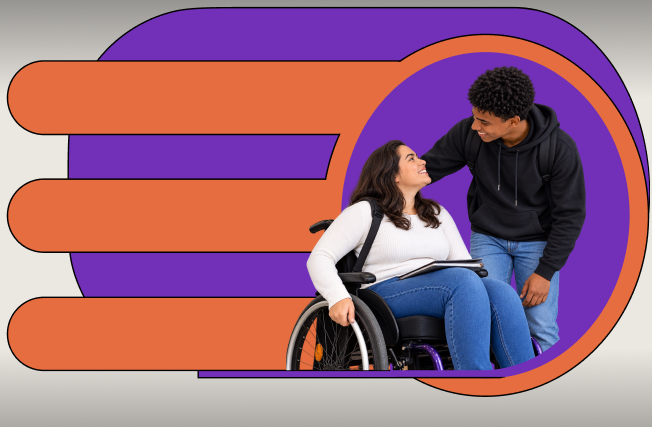
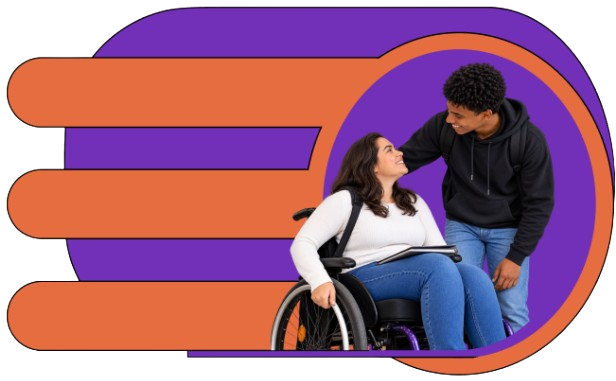
Add files via upload

diff --git a/estilos/style.css b/estilos/style.css
@@ -10,14 +10,14 @@
     */
 }
 :root{
-    --cor1: #9a9998a9;
+    --cor1: #ffffff;
     --cor2: #e56d3f;
     --cor3: #813ef5;
 }
 
 
 body{
-    background-color: var(--cor1);
+    background: linear-gradient(90deg, #ffffff, #8080807c);
 }
 a {
     text-decoration: none;
@@ -41,18 +41,22 @@ header{
     flex-wrap: wrap;
     transition-duration: 2s;
 }
+header div#conteiner-logo{
+    display: flex;
+    justify-content: space-around;
+    align-items: center;
+    gap: 15px;
+}
+
+header h1{
+    font-family: serif;
+}
 header #logo{
     width: 72px;
-    height: 70px;
-    background-color: #f5f5dc46;
+    background-color: var(--cor1);
     border-radius: 50%;
 
 }
-header #logo img{
-    width: 67px;
-    border-radius: 50%;
-}
-
 
 header #navbar {
     display: flex;
@@ -61,7 +65,6 @@ header #navbar {
     flex-wrap: wrap;
     flex-direction: row;
 }
-
 header #navbar a{
     padding: 5px 10px;
     min-width: 32px;
@@ -69,11 +72,14 @@ header #navbar a{
     font-weight: 700;
 }
 header #navbar a:hover{
-    background-color: var(--cor2);
-    border-radius: 10px 0;
+    background-color: #f860f863;
+    border-radius: 6px 0 6px 6px;
     color: var(--cor1);
     font-weight: bolder;
     transition-duration: 0.3s;
+}
+header #navbar a:active{
+    background-color: var(--cor3);
 }
 header .botao-mapa{
     background-color: white;
@@ -91,10 +97,11 @@ header #icone-menu{
 /* =============================== Topo ============================= */
 
 #secao-topo{
-    background: var(--cor1) url(../midia/imagem-de-fundo-tela-inicial.png) no-repeat center center;
-    width: 100vw;
-    
+    background:  url(../midia/imagem-de-fundo-tela-inicial.png) no-repeat center center;
+    background-size: contain;
     height: 80vh;
+    max-width: 700px;
+    margin: auto;
 }
 
 /* =============================== Corpo ============================= */
@@ -105,14 +112,16 @@ main{
     justify-content: space-around;
     align-items: start;
     background-color: var(--cor2);
-    margin: 40px auto 0px auto;
+    margin: 0px auto;
     padding: 20px;
-    max-width: 1000px;
     border-radius: 10px;
 }
 
 /*======================= Filtro ===================*/
 #secao-filtro{
+    position: absolute;
+    left: 0;
+
     background-color: var(--cor3);
     border-radius: 10px;
 
@@ -147,16 +156,22 @@ h2{
 
 /*======================= Sobre ===================*/
 #secao-sobre{
-    text-align: justify;
-    padding: 40px;
     background-color: white;
-    margin: auto;
-    max-width: 800px;
-
+    margin-top: 40px
 }
 #secao-sobre h2{
+    padding: 40px;
+    color: var(--cor1);
+    background-color: var(--cor3);
     text-align: center;
-    padding: 10px;
+    font: bold 20pt helvetica;
+}
+#secao-sobre p{
+    text-align: justify;
+    padding: 40px 15px;
+    max-width: 600px;
+    margin: auto;
+    font: normal 18pt arial;
 }
 
 /* =============================== Rodapé =========================== */
@@ -164,7 +179,7 @@ h2{
 footer{
     position: relative;
     margin-top: 30px;
-    background-color: var(--cor2);
+    background-color: var(--cor3);
     text-align: center;
     padding: 10px;
 }

diff --git a/index.html b/index.html
@@ -3,12 +3,13 @@
 <head>
     <meta charset="UTF-8">
     <meta name="viewport" content="width=device-width, initial-scale=1.0">
-    <title>meu site</title>
 
-    
+
+    <link rel="shortcut icon" href="midia/logo-com-texto.jpg" type="image/x-icon">
     <link rel="stylesheet" href="estilos/style.css">
+    <link rel="stylesheet" href="estilos/mobile.css" media="screen and (max-width: 850px)">
 
-    <link rel="stylesheet" href="estilos/mobile.css" media="screen and (max-width: 610px)">
+    <title>Enlace Digital</title>
 
     <link rel="preconnect" href="https://fonts.googleapis.com">
     <link rel="preconnect" href="https://fonts.gstatic.com" crossorigin>
@@ -17,10 +18,10 @@
 </head>
 <body>
     <header>
-        <a href="#" id="logo">
-            <img src="midia/Possível Logo.jpg" alt="imagem referente à logo da plataforma">
-        </a>
-
+        <div id="conteiner-logo">
+            <img id="logo" class="logo" src="midia/logo-branca.png" alt="imagem referente à logo da plataforma">
+            <h1>Enlace Digital</h1>
+        </div>
         <nav id="navbar">
             <a href="#">Escolas</a>
             <a href="#">Avaliações</a>
@@ -36,10 +37,10 @@
     </header>
     <div id="secao-topo">
     </div>
-    <main>
     
-
-<!-- ================= Filtro =================== -->
+    
+    <!-- ================= Filtro =================== -->
+    <main>
         <div id="secao-filtro">
 
             <form class="formulario" id="formulario" action="">
@@ -65,19 +66,21 @@
 
 
 <!-- ================= Mapa =================== -->
+    <div id="secao-mapa">
         <h2>Mapa de acessibilidade</h2>
-        <div id="secao-mapa">
-            <img  id="imagem-mapa" src="midia/imagem-mapa.webp" alt="Imagem de mapa das escolas com acessibilidade.">
-        </div>
+        <img  id="imagem-mapa" src="midia/imagem-mapa.webp" alt="Imagem de mapa das escolas com acessibilidade.">
+        <p>Encontre a escola com melhor acessibilidade para necessidades específicas.</p>
+    </div>
     </main>
   
 <!-- ================= Mapa =================== -->
         <div id="secao-sobre" class="secao-sobre">
-            <h2>Sobre</h2>
+            <h2>Sobre nossa iniciativa</h2>
 
             <p>
                 O Enlace Digital foi desenvolvido pensando em pessoas com deficiência (PCD) e suas famílias, principalmente nas etapas iniciais da escola onde enfrentam dificuldades para encontrar ambientes com acessibilidade específica para suas necessidades.
-
+            </p>
+            <p>
                 No Enlace Digital o familiar responsável poderá consultar informações sobre escolas e suas adequações para diferentes tipos de deficiência, seja visual, auditiva ou de mobilidade, além de visualizar a localização e avaliações das escolas. Dessa forma, o projeto busca centralizar essas informações e facilitar a busca por uma escola que atenda às necessidades específicas de cada pessoa.
 
             </p>

diff --git a/estilos/mobile.css b/estilos/mobile.css
@@ -6,7 +6,7 @@ header #navbar{
 }
 header #icone-menu{
     color: var(--cor3);
-    background-color: var(--cor1);
+    background-color: #ffffff;
     border-radius: 10px;
     padding: 10px;
     display: block;
